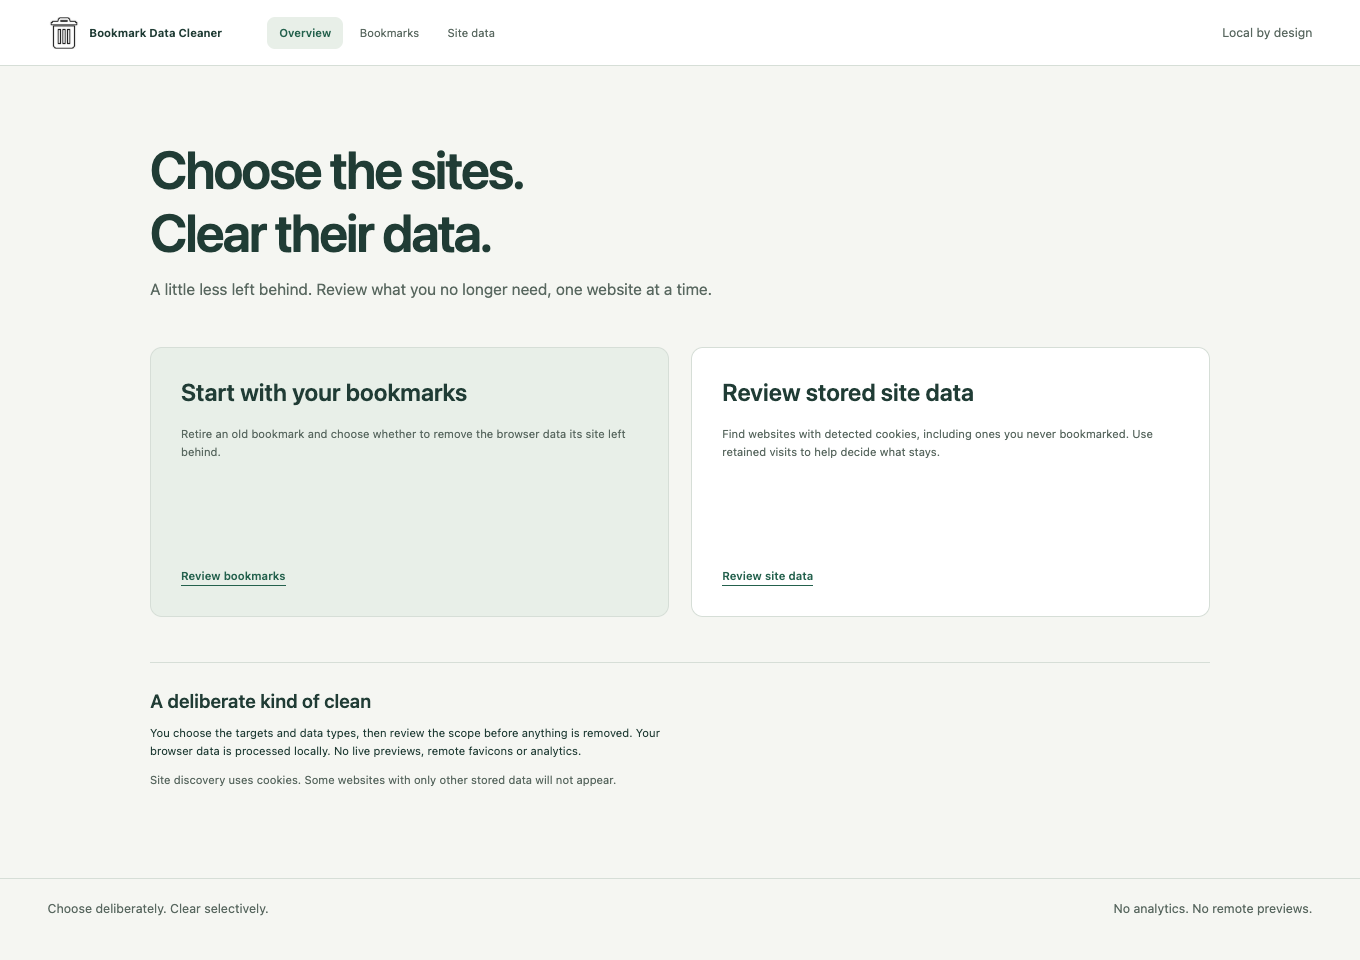
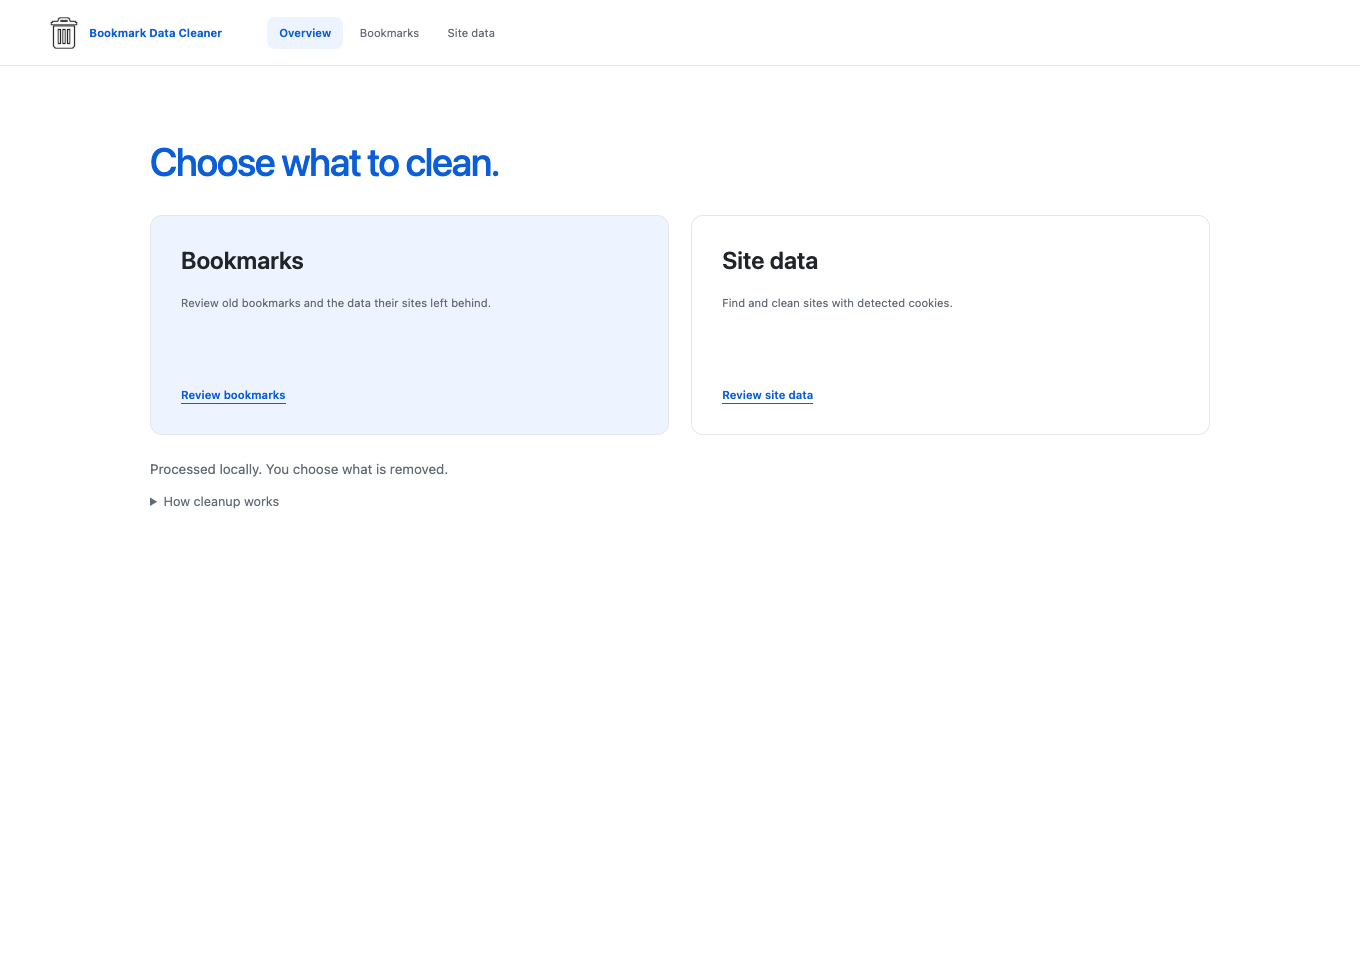
docs: record the refined UI and update screenshots

diff --git a/DESIGN.md b/DESIGN.md
@@ -1,26 +1,28 @@
 # Main app design
 
-Mode: operate. Help users review exact website cleanup scope confidently. The public name and existing icon are retained until a naming decision.
+Mode: operate. Keep the interface clean, familiar and easy to scan. Preserve the three-page structure and the original product name/icon.
 
 ## Visual foundation
 
-The implemented interface uses a pale green-gray canvas (`#f5f6f2`), white surfaces, dark green text (`#203c35`) and green actions (`#24614d`). Destructive confirmation uses red; irreversible-action explanations use a warm amber surface. Tokens live in `extension/styles/tokens.css`.
+White surfaces, neutral text (`#212529`) and the original blue accent (`#0b5ed7`). Light blue marks active navigation; red is reserved for destructive confirmation. System fonts and locally authored SVG icons keep the extension lightweight and offline.
 
-System sans-serif typography keeps the package offline and small. Base text is 15px/1.55; headings use restrained weight and size contrast. Native inputs, selects, checkboxes and dialogs preserve familiar keyboard behavior. Borders, spacing and a single dialog shadow define regions.
+Use short page instructions. Refresh, clear selection and other familiar secondary actions may use icons with accessible names and hover titles. Keep important actions such as reviewing and confirming cleanup labeled in text. Put explanatory material behind disclosures, while keeping deletion consequences and exact scope visible at confirmation.
 
-## Composition
+## Layout and interaction
 
-- Header: existing icon/name, Overview/Bookmarks/Site data navigation, local-processing label.
-- Overview: two requested feature cards and a short privacy/coverage explanation.
-- Workspaces: controls and selected count above a primary list, with local metadata alongside.
-- Bookmarks: nested collapsible folders, indeterminate checkboxes, selected/total folder counts.
-- Sites: compact year/date timeline; undated sites remain in a separate group.
-- Cleanup: choice dialog → fixed review → explicit destructive confirmation → persistent category-level results.
+- Overview: two feature cards and a brief local-processing note.
+- Workspaces: a full-width list with compact controls. The page owns scrolling.
+- Bookmark folders: nested selection and animated expansion/collapse. Closed folders are inert and hidden from assistive technology.
+- Site timeline: compact date groups; missing history stays separate.
+- Details: a shared, right-sliding card, up to 620px wide. It shows visit/cookie/bookmark summaries first; URLs, storage scope and forms expand on demand.
+- The card uses a native modal dialog. The background is locked; the card has one scroll surface, with no scrollable panels inside it. Close by button, Escape or backdrop. Focus returns to the source row, including its replacement after a list refresh.
 
-Below 720px the workspaces stack. Inspecting a row focuses/reveals its details, with a Back to list button returning to that row. Desktop details remain sticky with their own bounded scroll area. Dashboard cards stack; dates move above site rows.
+## Motion
 
-## Interaction and accessibility
+Folder expansion: 220ms, with a rotating chevron. Drawer entrance: 240ms; exit: 160ms. Interrupted interactions must settle on the latest state. Reduced-motion preferences remove spatial transitions while retaining clear state changes.
 
-Visible focus outlines, labeled controls, a skip link, native dialog behavior and text-backed status spinners. Reduced-motion settings stop spinner animation. No automatic target-page or favicon requests. URLs are only visited through explicit links that explain the browsing-data consequence.
+## Validation
 
-UI behavior and responsive overflow are checked by `scripts/ui-smoke.mjs`; screenshots are generated under `dist/screenshots/`. An independent visual review found the offscreen-details issue; the final focus/return fix was verified locally after the reviewer hit its usage limit.
+`folder-motion-smoke.mjs` checks collapse timing, rapid toggles and reduced motion. `ui-refinement-smoke.mjs` checks the drawer, progressive disclosure, dismissal/focus, save-refresh-focus recovery, stale requests, route cleanup and narrow windows. Captures live in ignored `dist/refinement/`.
+
+This pass was reviewed independently and verified in disposable Edge 152 profiles. No real website previews or remote favicons are loaded.

diff --git a/docs/development.md b/docs/development.md
@@ -2,7 +2,7 @@
 
 ## Run locally
 
-Use Node 24+ and Chrome 130+ (current automated browser coverage: Chrome for Testing 152 on macOS arm64).
+Use Node 24+ and a current desktop Edge or Chrome. The Chrome API baseline is 130; automated coverage includes Edge 152 and Chrome for Testing 152 on macOS arm64.
 
 ```sh
 npm ci
@@ -11,8 +11,8 @@ npm test
 npm run build
 ```
 
-1. Use a separate Chrome profile with disposable bookmarks and data; keep sync off.
-2. Open `chrome://extensions`, enable **Developer mode**, select **Load unpacked**.
+1. Use a separate browser profile with disposable bookmarks and data; keep sync off.
+2. Open `edge://extensions` (Edge) or `chrome://extensions` (Chrome), enable **Developer mode**, select **Load unpacked**.
 3. Select **`dist/extension/`**, then click the extension toolbar icon.
 4. Allow cookie/site access in Site data when needed. Visit dates request history separately.
 
@@ -36,11 +36,13 @@ npm run build
 npm run test:browser
 ```
 
-Each script creates and removes a fresh temporary profile. Never point these scripts at your normal profile. The harness requires Chrome for Testing's unpacked-extension debugging support.
+Each script creates and removes a fresh temporary profile. Never point these scripts at your normal profile. The harness requires unpacked-extension debugging support. It also works with the tested Edge 152 executable; set `CHROME_BIN='/Applications/Microsoft Edge.app/Contents/MacOS/Microsoft Edge'` on macOS.
 
 - `permissions-smoke`: unmodified manifest, optional access gate, single app tab.
 - `cleanup-smoke`: selected partition removed; another partition and unrelated cookies preserved; no cookie values in inventory state.
 - `storage-smoke`: known-origin Local Storage, IndexedDB, CacheStorage and workers removed; control origin preserved.
+- `folder-motion-smoke`: animated collapse, rapid toggles and reduced-motion expansion.
+- `ui-refinement-smoke`: sliding details card, one scroll surface, disclosures, dismissal/focus, focus after saving, stale requests and narrow windows. Captures go to `dist/refinement/`.
 - `ui-smoke`: dashboard/routes, folders, indeterminate and duplicate selection, metadata, validation, bookmark-only and site-cookie cleanup, timeline, narrow layouts and offline reload. Screenshots go to ignored `dist/screenshots/`.
 
 Cleanup/storage/UI tests copy the package into their temporary profile and grant optional permissions **in that test copy only** to seed fixtures without browser prompts. The permission test uses the real manifest. These are controlled integration tests, not complete browser compatibility coverage.

diff --git a/PRODUCT.md b/PRODUCT.md
@@ -2,10 +2,12 @@
 
 Bookmark Data Cleaner is becoming a selective website-data cleanup tool. The mechanism is deliberate site selection, reviewed browser-data categories, then explicit deletion; bookmarks are one entry point, cookie-discovered sites the other.
 
-Audience: Chrome users tidying abandoned websites and bookmarks, with privacy and control as the main value. Main app first; quick toolbar cleanup/status is Stage 2. Keep public name/icon until a naming decision.
+Audience: desktop Edge and Chrome users tidying abandoned websites and bookmarks, with privacy and control as the main value. Main app first; quick toolbar cleanup/status is Stage 2. Keep public name/icon until a naming decision.
 
 Three journeys: overview cards → collapsible bookmark tree or last-visit site timeline → local metadata → select cleanup types → review exact scope → confirm → inspect results. Unknown history is separate. Site inventory is cookie-driven and incomplete for storage-only websites.
 
 Constraints: offline local assets, TypeScript/native modules, native controls/custom CSS, no runtime dependencies or framework. No live previews, screenshots, remote favicons or analytics. History is optional enrichment. Deletion is irreversible; never infer success after interruption or replay automatically.
 
 See docs/rebranding-plan.md for scope and docs/architecture.md for tested boundaries.
+
+UI preferences: reduce visible text, retain the original blue/white identity, use familiar labeled icons, animate folder transitions, and show details in a wide card sliding from the right. Avoid nested scrolling. Keep commits focused on one intent.

diff --git a/docs/architecture.md b/docs/architecture.md
@@ -31,3 +31,7 @@ Required: bookmarks, browsingData and storage. Cookie/site access and history ar
 Minimal job status/results live in `storage.session`; full plans and cookie values are not persisted. A restarted worker changes a saved running job to **unverified** and never resumes destructive work automatically. Browser-session storage does not survive a full browser restart. An API timeout/interruption cannot prove which internal browser work completed.
 
 All assets are packaged locally. Metadata inspection performs no target-page requests. Explicitly opening a known URL visits the site and can create browsing data. Bookmark sync follows the user's browser configuration.
+
+## Details and motion
+
+Both workspaces share a native details dialog. The list uses page scrolling; the open card locks the background and supplies one scroll surface. Request tokens ignore results after dismissal or replacement. Stable row keys restore focus even when saving rebuilds the list. Folder expansion uses CSS grid transitions and makes collapsed descendants inert. Reduced-motion preferences disable spatial transitions.

diff --git a/docs/uiux-refinement.md b/docs/uiux-refinement.md
@@ -1,0 +1,17 @@
+# UI/UX refinement
+
+Branch: `codex/uiux-refinement`.
+
+User direction: less text, original blue/white theme, familiar icons, animated folders, and a wider right-sliding details card. Preserve the app skeleton and make one-intent commits.
+
+Implemented:
+- Restored the blue/white palette.
+- Animated folder expansion, including rapid toggles and reduced motion.
+- Replaced the narrow sidebar with a shared inspection card; one scroll surface and explicit dismissal/focus return.
+- Moved URLs, storage information and bookmark forms behind disclosures.
+- Shortened page and option copy; retained cleanup consequences and exact confirmation scope.
+- Used accessible icon controls for familiar secondary actions.
+
+The independent review found a save → refresh → close focus issue. A regression test reproduced it in Edge; the fix restores focus to the replacement row or main content. The reviewer verified the fix in Edge.
+
+See [development](development.md) for test commands. Naming, the rich toolbar popup and unrelated new features remain outside this pass.
